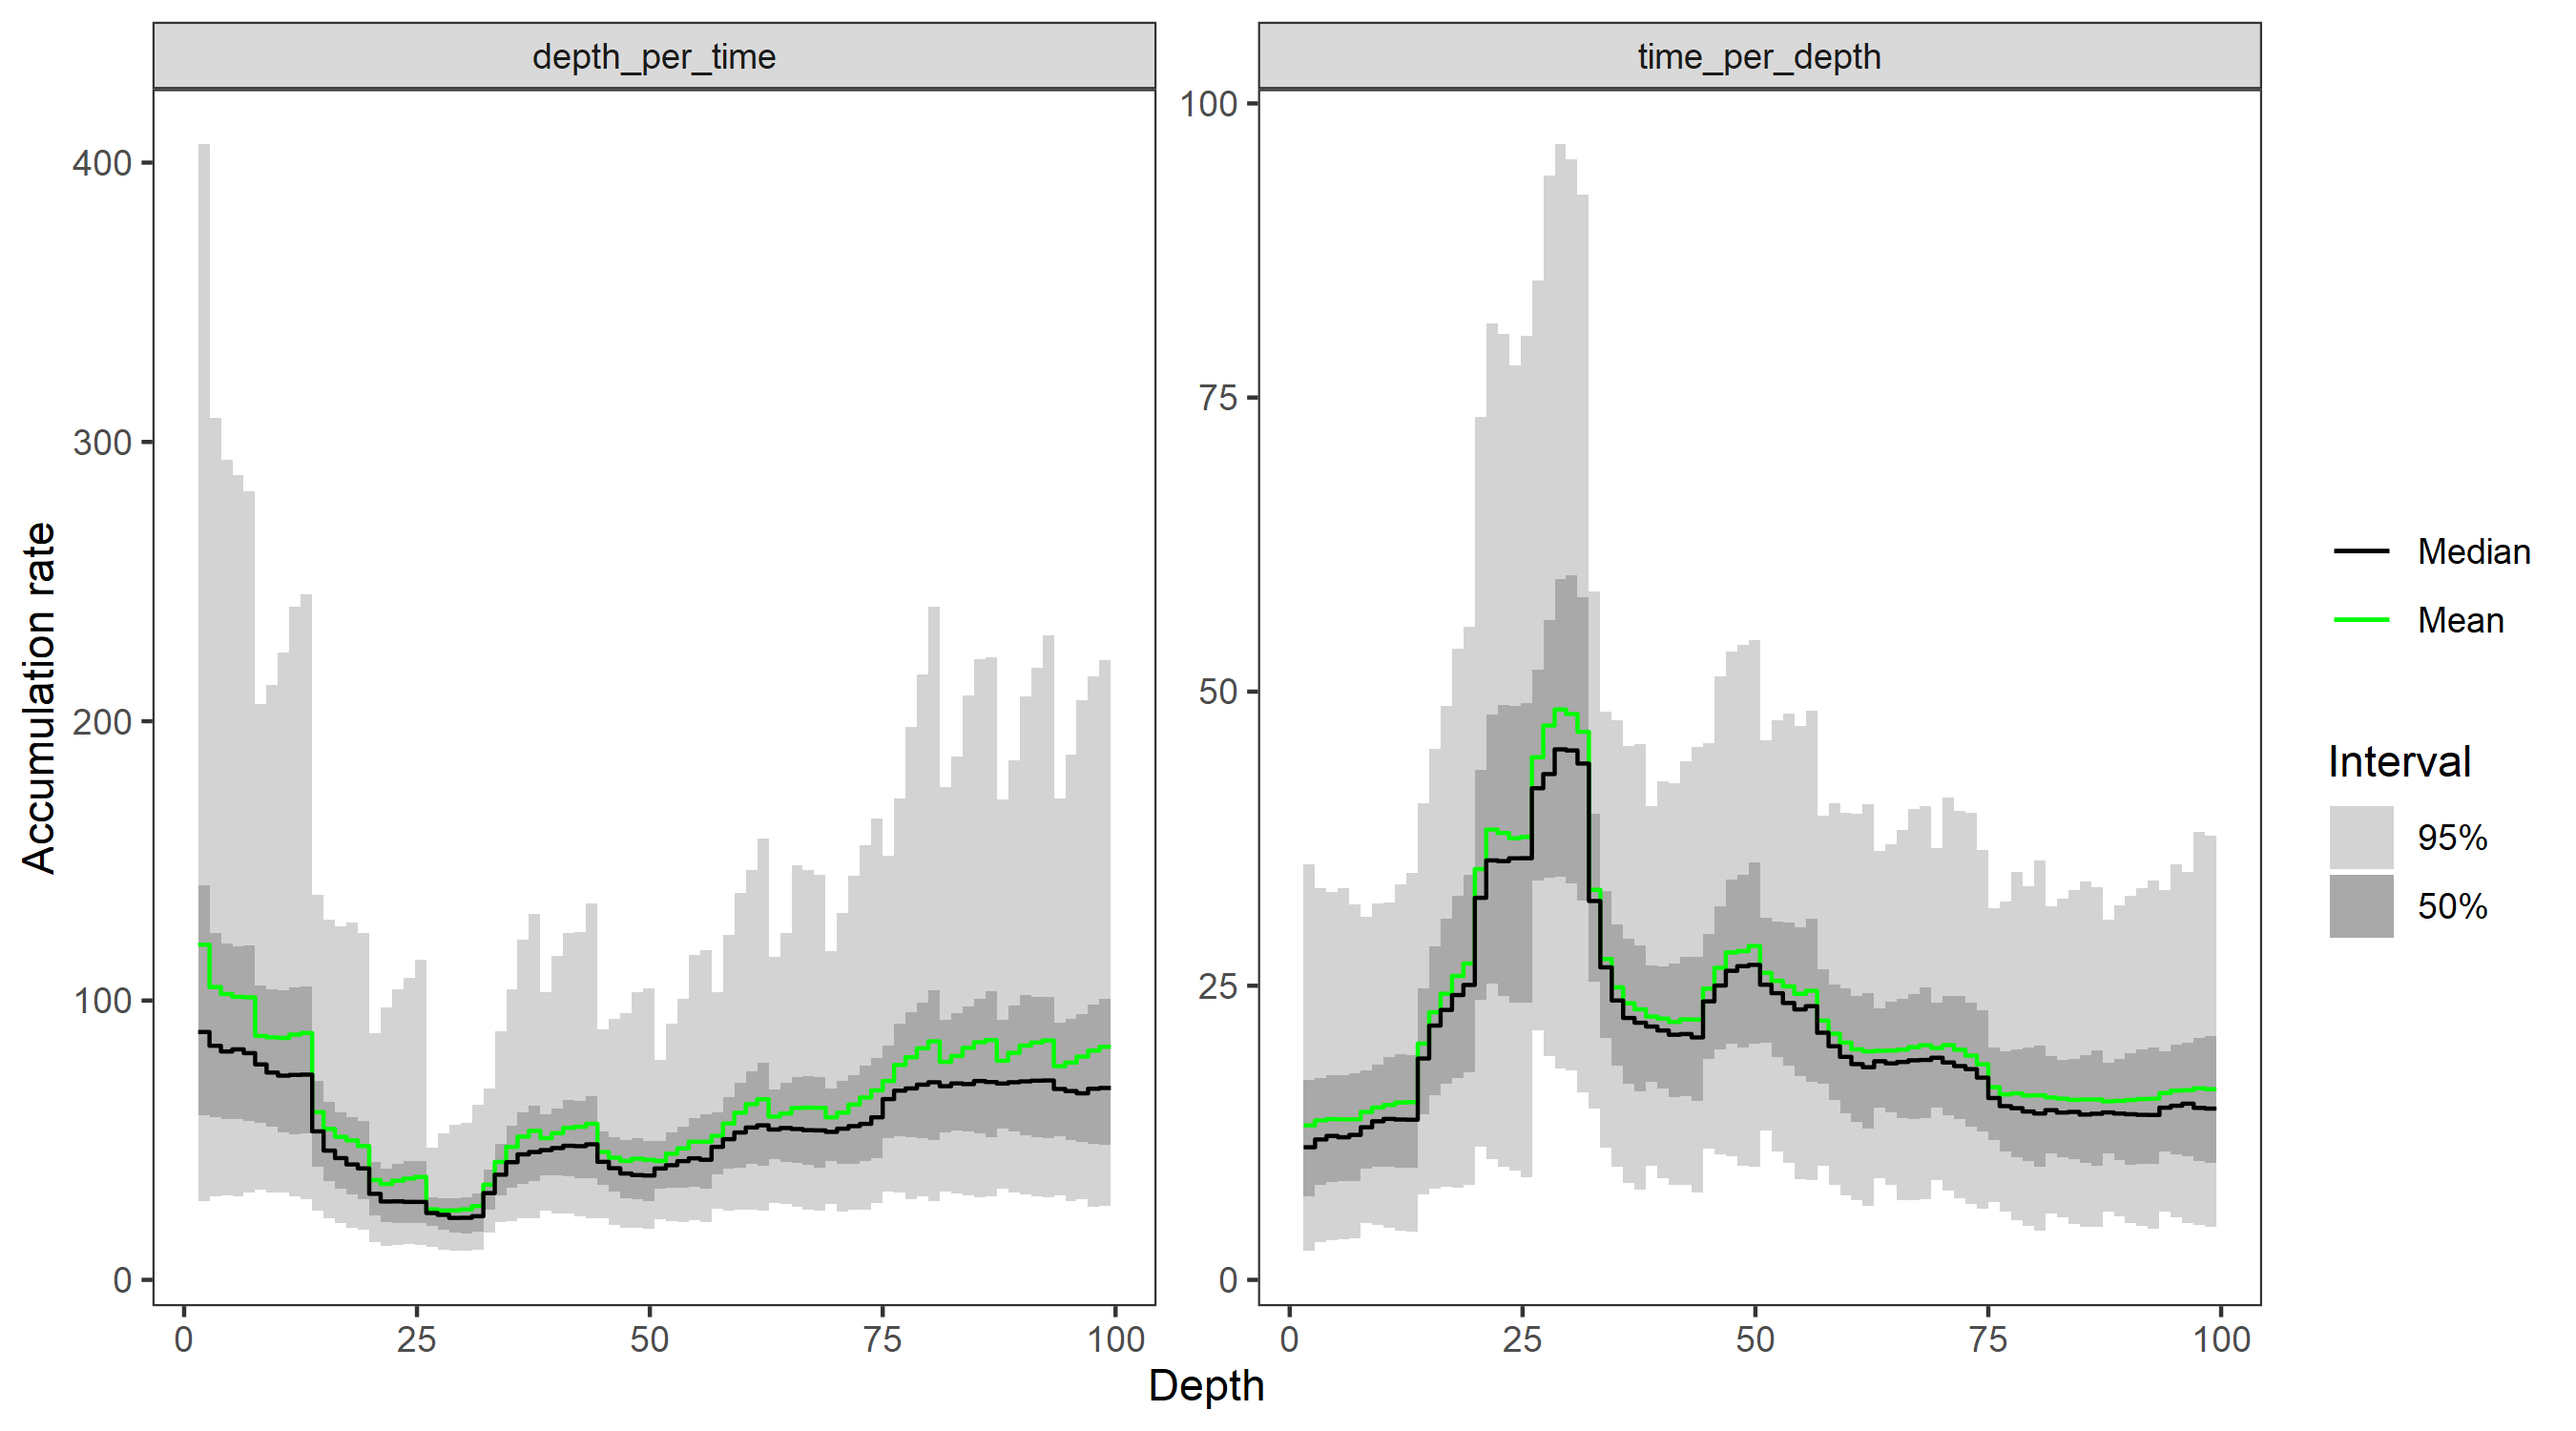
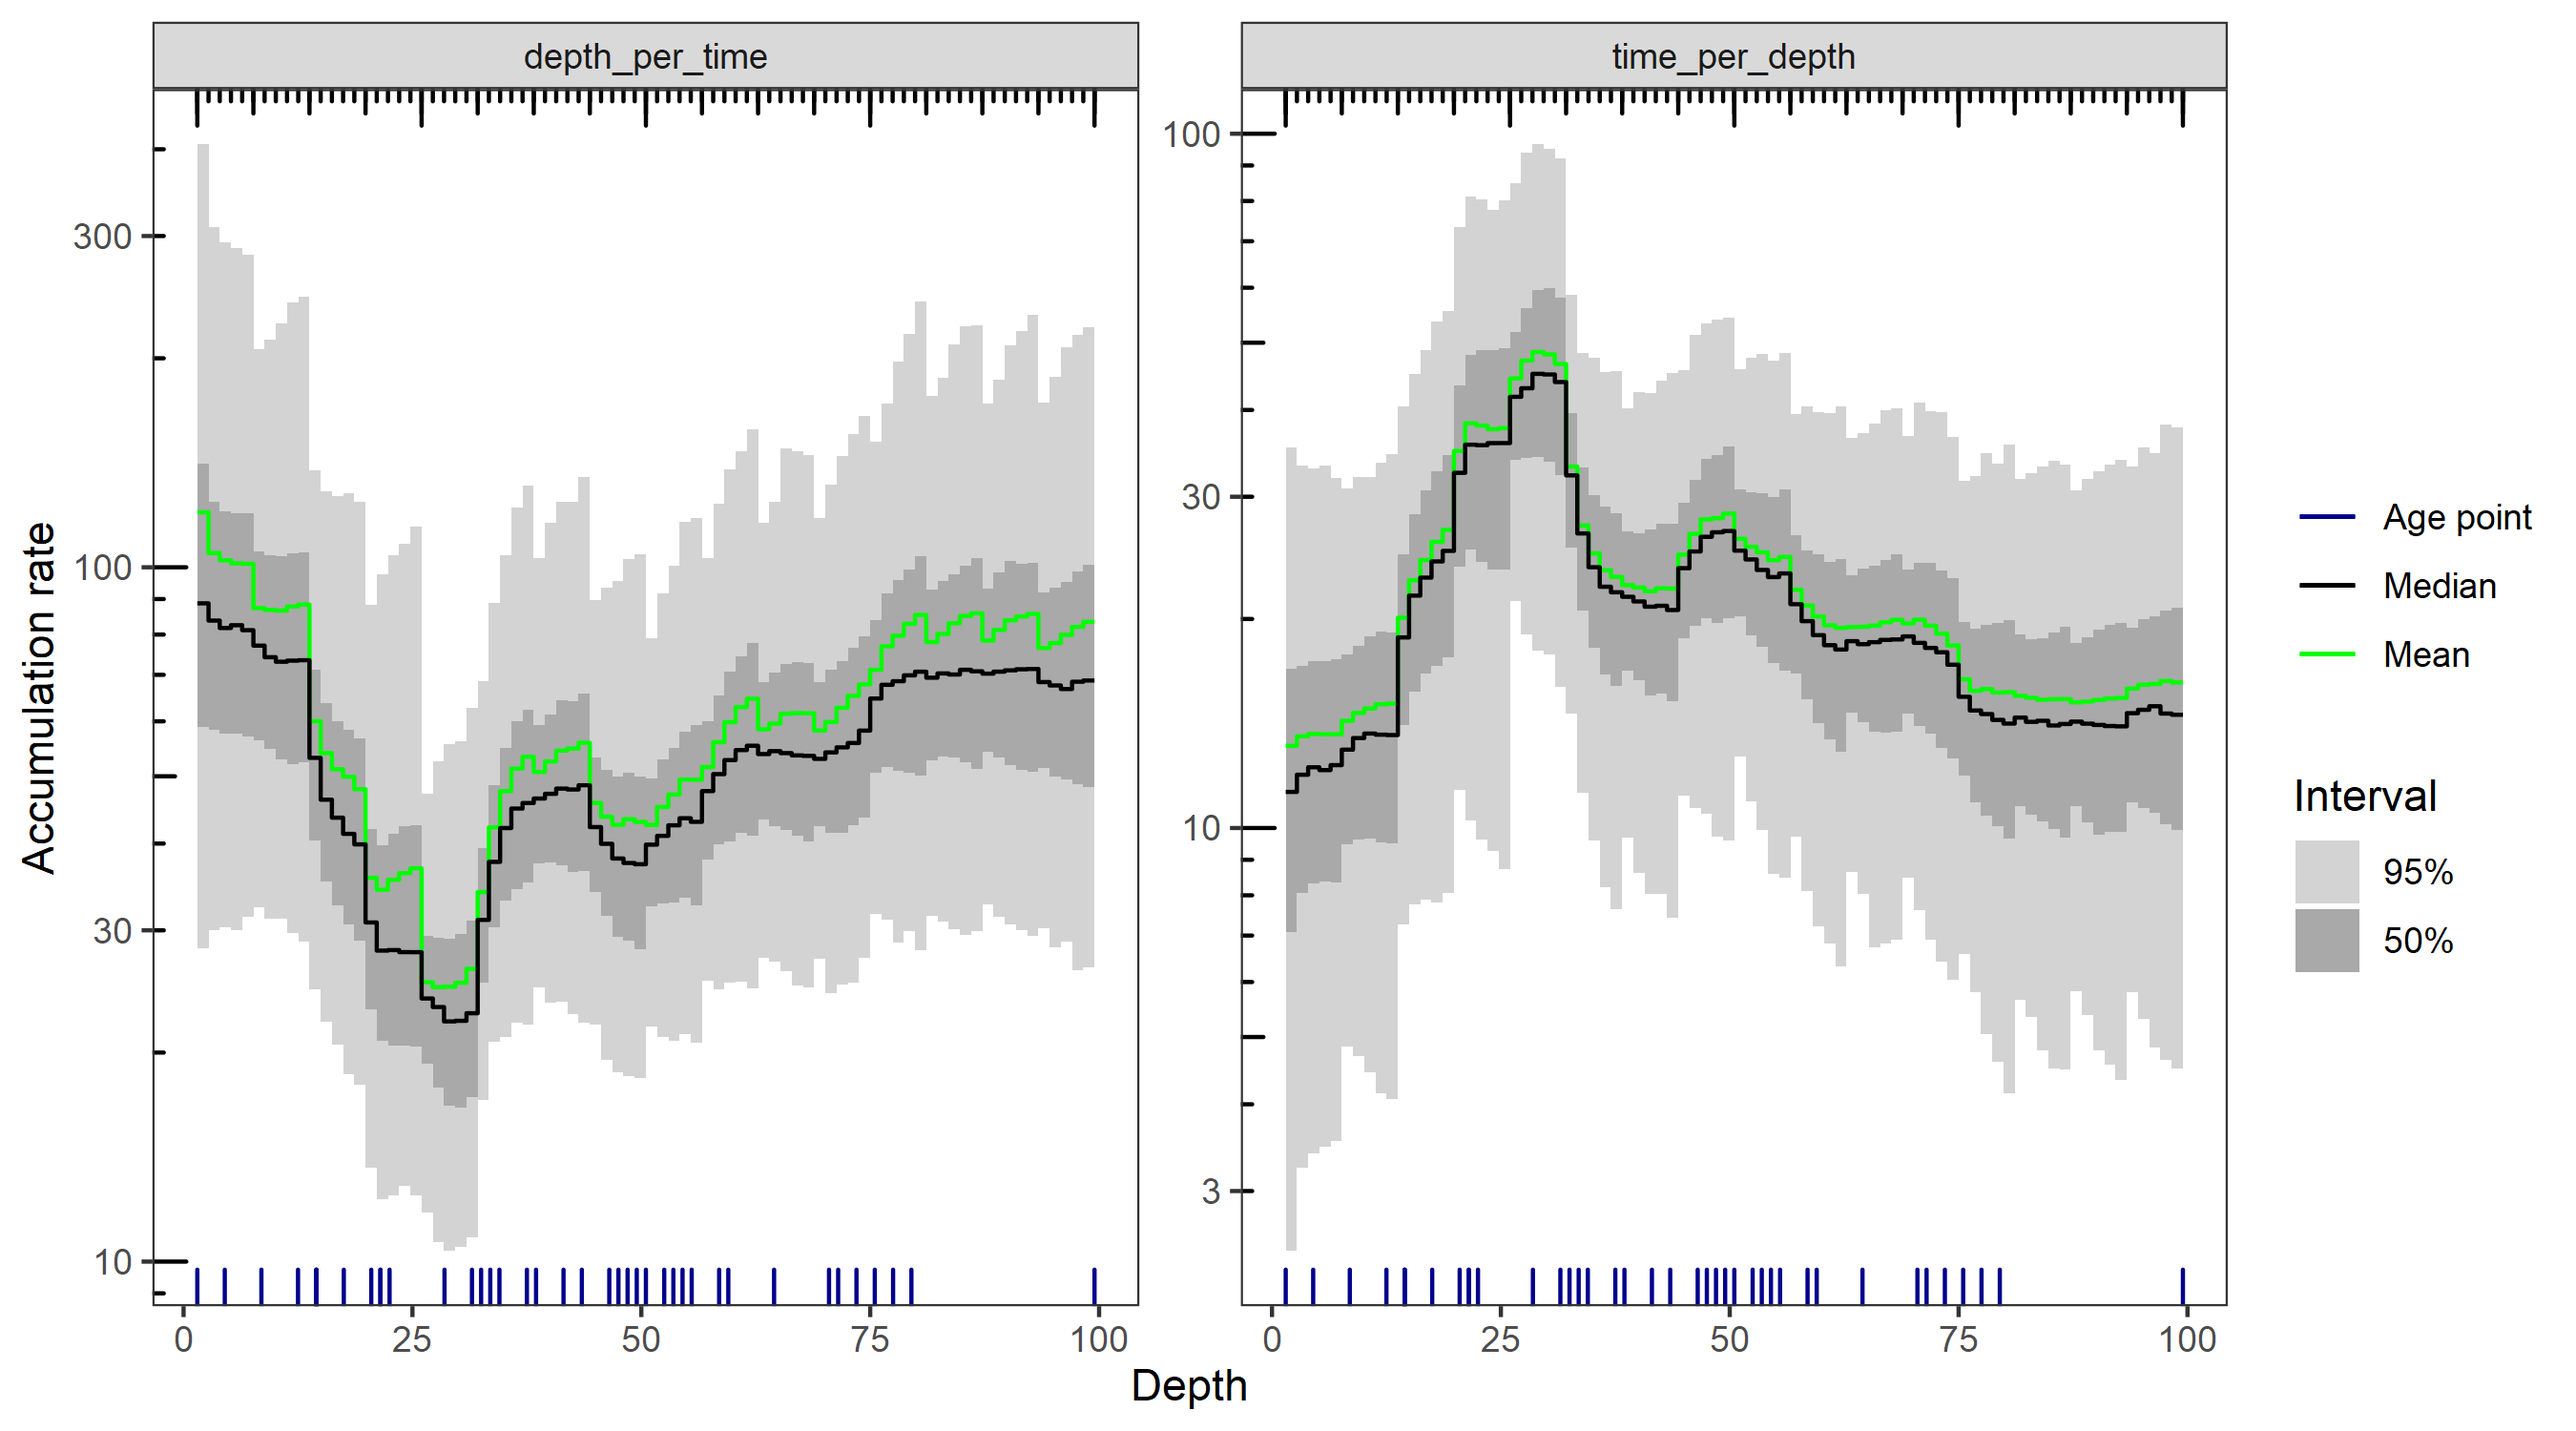
smooth acc_rates for bacon models

diff --git a/readme.md b/readme.md
@@ -1,7 +1,7 @@
 hamstr: Hierarchical Accumulation Modelling with Stan and R.
 ================
 Andrew M. Dolman
-2021-11-07
+2021-11-22
 
 ------------------------------------------------------------------------
 
